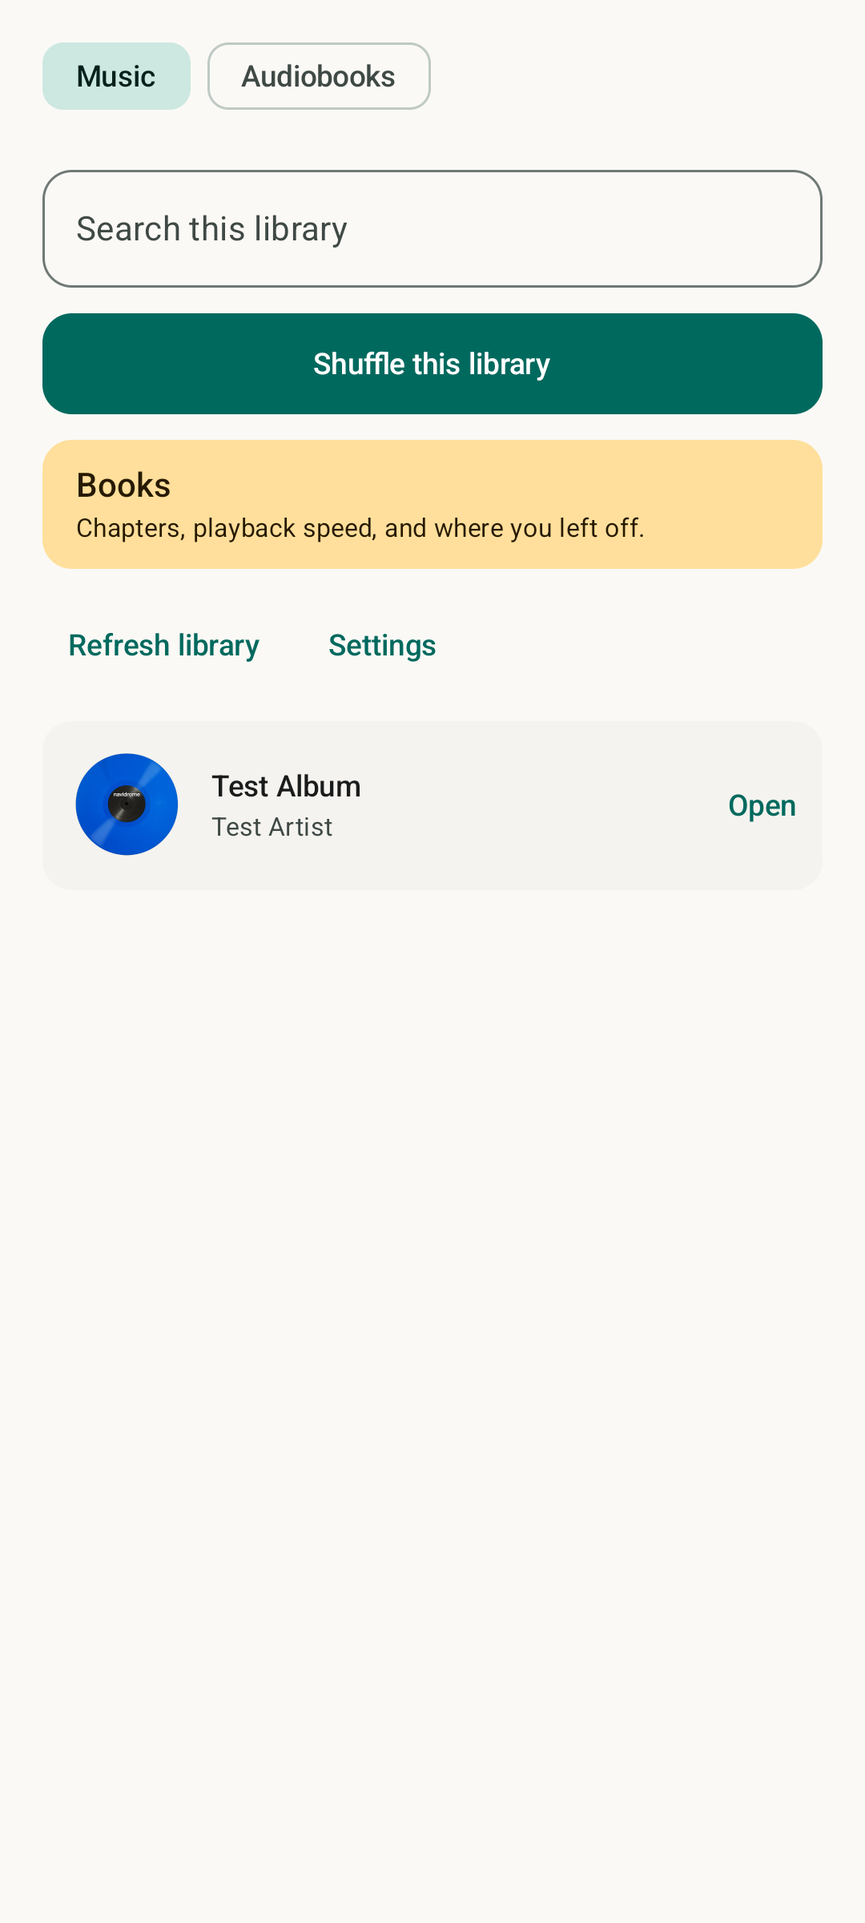
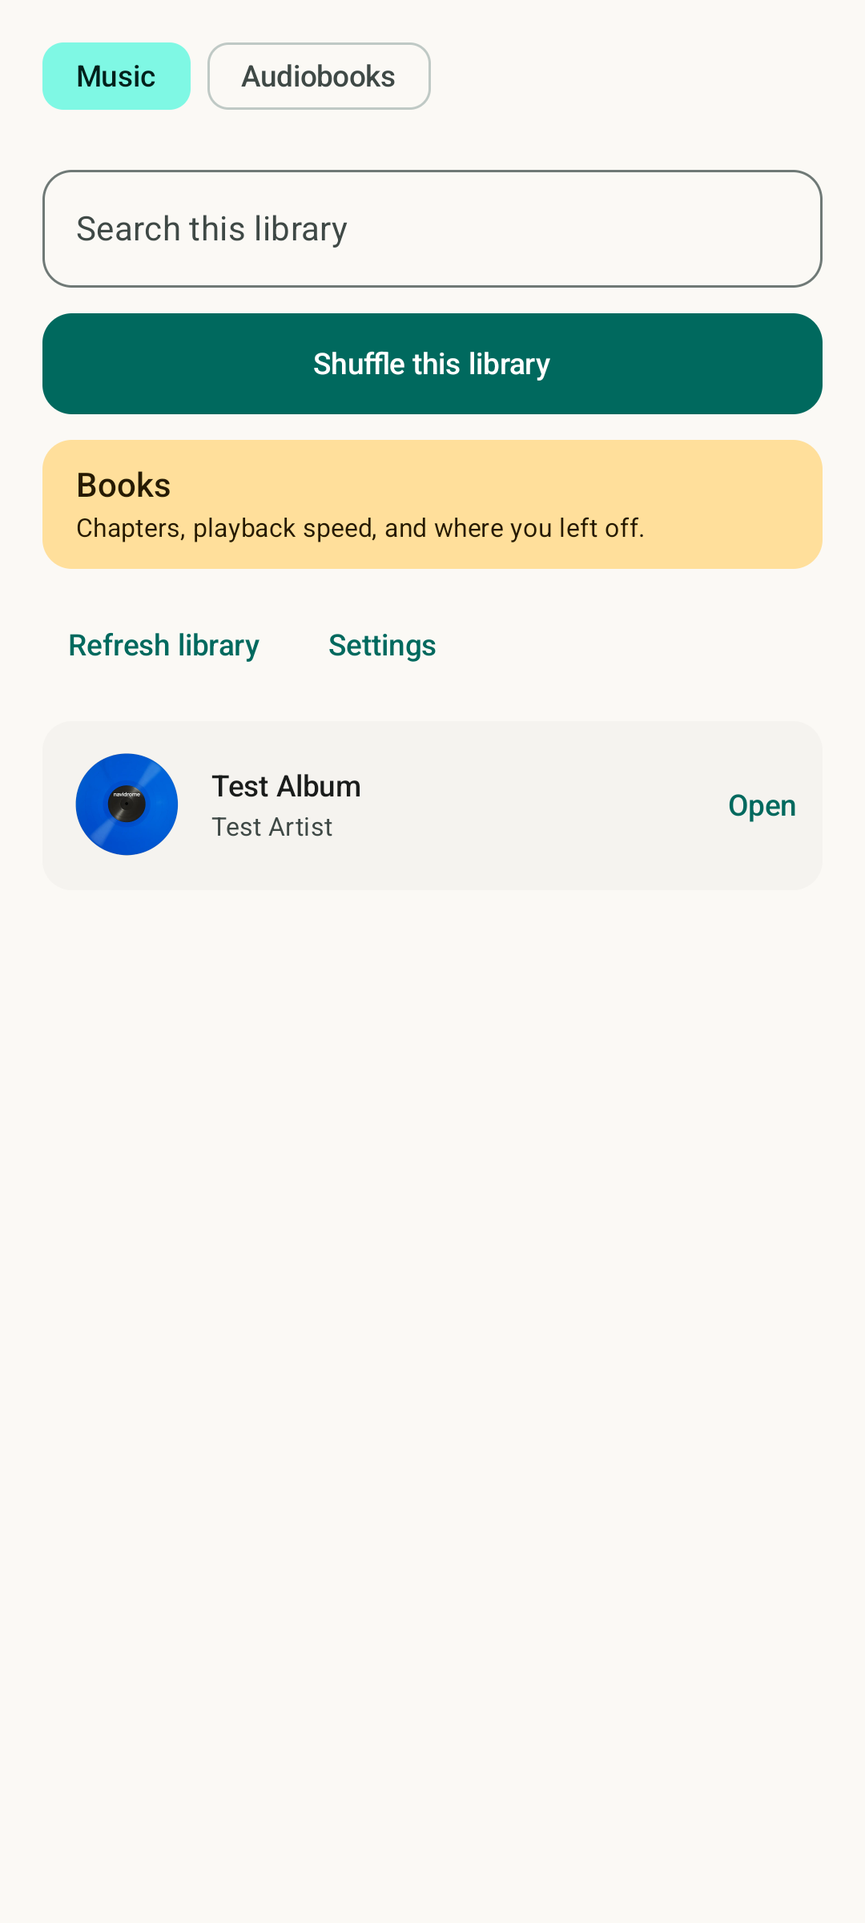
fix(ui): a progress track nobody could see, and a chip that changed colour by screen
The last three open P1s from the design-system audit. Two of them turned out to
be about something other than what the audit named, and that is recorded here
rather than quietly dropped.

**The audiobook progress track was drawn in a role that cannot be seen.** All
three book screens used `surfaceVariant` for `trackColor`. Measured against the
light scheme this ships: `surfaceVariant` on `surface` is **1.22:1**, which is
not a visible line -- the bar looked like it had no unfilled portion at all.
`outlineVariant` is **1.61:1** on the same background, and the filled portion
stays at 3.80:1 either way. All three now use `outlineVariant`.

`BookVoiceApplicationTest` gains `no audiobook screen draws its progress track in
the role that cannot be seen`: a source scan over the three files (comments
stripped) asserting exactly three `trackColor =` sites and all three
`outlineVariant`. Falsified red by reverting one of them.

**The dark-scheme `surfaceVariant`/`outlineVariant` "collision" is Material's
own baseline, not a defect.** material3 1.4.0's `ColorDarkTokens` assigns both
roles `PaletteTokens.NeutralVariant30` -- they are the same colour by design,
and `SurfaceContainerHighest` is `Neutral22`. The harm the audit predicted from
this (an invisible placeholder) had already been fixed elsewhere. The override
stays and now carries the token measurement so the next reader does not re-derive
it.

**Deleting the three unused type styles would substitute Material's numbers, not
[…]

Changed region(s): [[0.0306, 0.0, 0.2444, 0.0625]]

diff --git a/feature/library/src/test/kotlin/app/muplay/library/LibraryChipVoiceTest.kt b/feature/library/src/test/kotlin/app/muplay/library/LibraryChipVoiceTest.kt
@@ -1,0 +1,70 @@
+package app.muplay.library
+
+import java.io.File
+import org.assertj.core.api.Assertions.assertThat
+import org.junit.jupiter.api.Test
+
+/**
+ * **A library keeps the colour setup taught the user for it.**
+ *
+ * `Color.kt` reserves `primary` for music and `tertiary` for audiobooks, and `SetupScreen` teaches
+ * that pairing as directly as a screen can: its two chips are labelled "Tag as Music"
+ * (`primaryContainer`) and "Tag as Audiobooks" (`tertiaryContainer`). The library selector then
+ * drew the same libraries as stock `FilterChip`s in neither colour, three rows above a `Books` card
+ * that *is* `tertiaryContainer` -- so the continuity was closed for the door out of the music half
+ * and left open for the thing the door leads to.
+ *
+ * A source scan, for the same reason [BookVoiceApplicationTest] in `:feature:book` is one: there is
+ * no Compose matcher for "what colour is that chip", and a screenshot would only show it in one
+ * theme and only for a library a fixture happens to have tagged. This module's own sources are
+ * declared inputs of this module's own test task, so editing the screen re-runs this -- which is
+ * the hole CLAUDE.md records for `ConventionTest`'s repo-wide rules.
+ *
+ * Comments are stripped before matching. The composable's own KDoc names both container roles in
+ * prose, and a raw-text scan would be satisfied by the explanation instead of by the code -- the
+ * self-matching failure this repository has now paid for five times, and the same fix
+ * `VerifyMergedManifestTask`'s required half makes.
+ *
+ * Falsified: with the `colors =` argument deleted, both assertions below go red naming the role
+ * that is missing.
+ */
+class LibraryChipVoiceTest {
+
+  @Test
+  fun `the library selector tints an audiobook library in the audiobook voice`() {
+    val body = libraryChipsBody()
+
+    assertThat(body)
+      .describedAs("LibraryChips must decide its tint from the library's own role")
+      .contains("LibraryRole.AUDIOBOOKS")
+    assertThat(body)
+      .describedAs("an audiobook library's selected chip is the container colour setup tagged it with")
+      .contains("tertiaryContainer", "onTertiaryContainer")
+    assertThat(body)
+      .describedAs("a music library's selected chip stays in the music voice")
+      .contains("primaryContainer", "onPrimaryContainer")
+  }
+
+  @Test
+  fun `the scan is looking at the real composable`() {
+    // Without this, a renamed composable makes the test above scan an empty string and report
+    // nothing -- the failure mode where a check returns the same falsey value for "clean" and
+    // "I could not look". Same guard `BookVoiceApplicationTest` keeps on its own file list.
+    val body = libraryChipsBody()
+    assertThat(body).isNotBlank()
+    assertThat(body).contains("FilterChip(", "onLibrarySelected(library.id)")
+  }
+
+  /** The body of `LibraryChips`, from its signature to the next column-0 `}`, comments removed. */
+  private fun libraryChipsBody(): String {
+    val source = File("src/main/kotlin/app/muplay/library/LibraryScreen.kt")
+    assertThat(source).describedAs("LibraryScreen.kt").exists()
+    val lines = source.readLines()
+    val start = lines.indexOfFirst { it.startsWith("private fun LibraryChips(") }
+    assertThat(start).describedAs("the LibraryChips declaration").isNotEqualTo(-1)
+    val close = (start + 1 until lines.size).first { lines[it] == "}" }
+    return lines.subList(start + 1, close).joinToString("\n")
+      .replace(Regex("""/\*[\s\S]*?\*/"""), "")
+      .replace(Regex("""//.*"""), "")
+  }
+}

diff --git a/feature/library/src/main/kotlin/app/muplay/library/LibraryScreen.kt b/feature/library/src/main/kotlin/app/muplay/library/LibraryScreen.kt
@@ -16,6 +16,7 @@ import androidx.compose.foundation.lazy.items
 import androidx.compose.foundation.lazy.itemsIndexed
 import androidx.compose.material3.Button
 import androidx.compose.material3.FilterChip
+import androidx.compose.material3.FilterChipDefaults
 import androidx.compose.material3.MaterialTheme
 import androidx.compose.material3.OutlinedTextField
 import androidx.compose.material3.Surface
@@ -34,6 +35,7 @@ import androidx.lifecycle.compose.collectAsStateWithLifecycle
 import app.muplay.designsystem.component.Message
 import app.muplay.designsystem.theme.MuPlaySpacing
 import app.muplay.model.Album
+import app.muplay.model.LibraryRole
 import app.muplay.model.Song
 
 @Composable
@@ -287,7 +289,20 @@ private fun LibraryScreen(
   }
 }
 
-/** The library selector. Wraps, because a library's name is whoever-set-the-server-up's business. */
+/**
+ * The library selector. Wraps, because a library's name is whoever-set-the-server-up's business.
+ *
+ * **A chip is tinted by what its library holds, which is the tint the user chose in setup.**
+ * `Color.kt` reserves `primary` for music and `tertiary` for audiobooks, and setup teaches that
+ * pairing directly: its two chips are literally labelled "Tag as Music" (`primaryContainer`) and
+ * "Tag as Audiobooks" (`tertiaryContainer`). This selector was a stock `FilterChip` with no
+ * colours at all, so the first thing a user saw after being taught the pairing was the same
+ * library in neither colour -- while the `Books` card a few rows below it *is* `tertiaryContainer`.
+ * The continuity was closed for the door out of the music half and left open for the selector.
+ *
+ * Only the *selected* colours are named. An unselected chip is an outline in both voices, and
+ * tinting the outlines would turn a row of libraries into a colour key nobody asked for.
+ */
 @Composable
 @OptIn(ExperimentalLayoutApi::class)
 private fun LibraryChips(uiState: LibraryUiState.Content, onLibrarySelected: (Int) -> Unit) {
@@ -297,10 +312,23 @@ private fun LibraryChips(uiState: LibraryUiState.Content, onLibrarySelected: (In
     modifier = Modifier.fillMaxWidth(),
   ) {
     uiState.libraries.forEach { library ->
+      val audiobooks = library.role == LibraryRole.AUDIOBOOKS
       FilterChip(
         selected = library.id == uiState.selectedLibraryId,
         onClick = { onLibrarySelected(library.id) },
         label = { Text(library.name) },
+        colors = FilterChipDefaults.filterChipColors(
+          selectedContainerColor = if (audiobooks) {
+            MaterialTheme.colorScheme.tertiaryContainer
+          } else {
+            MaterialTheme.colorScheme.primaryContainer
+          },
+          selectedLabelColor = if (audiobooks) {
+            MaterialTheme.colorScheme.onTertiaryContainer
+          } else {
+            MaterialTheme.colorScheme.onPrimaryContainer
+          },
+        ),
       )
     }
   }

diff --git a/feature/book/src/test/kotlin/app/muplay/book/BookVoiceApplicationTest.kt b/feature/book/src/test/kotlin/app/muplay/book/BookVoiceApplicationTest.kt
@@ -57,6 +57,46 @@ class BookVoiceApplicationTest {
     }
   }
 
+  /**
+   * **Every book screen's progress track is `outlineVariant`, and none is `surfaceVariant`.**
+   *
+   * `PlayerScreen`'s seek bar carries the measurement: light `surfaceVariant` on the light surface
+   * is **1.22:1**, which is a track a sighted user cannot find, and `outlineVariant` is 1.61:1.
+   * That change landed on the seek bar and on nothing else, so the three book screens kept drawing
+   * the version it replaced for weeks. A colour assertion cannot see this -- there is no Compose
+   * matcher for "what colour is that track" -- and the roles are identical in dark, so even a
+   * screenshot would only show it in one theme.
+   *
+   * Comments are stripped first. The comment beside each of these very lines names
+   * `surfaceVariant` in prose, and a raw-text scan would report itself -- the self-matching failure
+   * this repository has now paid for five times.
+   */
+  @Test
+  fun `no audiobook screen draws its progress track in the role that cannot be seen`() {
+    val tracks = screens.map { (file, _) -> file to trackColoursIn(file) }
+
+    // Non-vacuity, and it is the half that would rot: a renamed file or a fourth book screen with
+    // no bar leaves the assertion below true and meaningless.
+    assertThat(tracks.flatMap { it.second })
+      .describedAs("every `trackColor =` in the three book screens")
+      .hasSize(3)
+
+    assertThat(tracks.filterNot { (_, roles) -> roles.all { it == "outlineVariant" } }.map { it.first })
+      .describedAs("book screens drawing a progress track in a role other than outlineVariant")
+      .isEmpty()
+  }
+
+  /** The colour-scheme role named by each `trackColor =` in [file], comments removed. */
+  private fun trackColoursIn(file: String): List<String> {
+    val source = File("src/main/kotlin/app/muplay/book/$file")
+    assertThat(source).describedAs("source file %s", file).exists()
+    val code = source.readText()
+      .replace(Regex("""/\*[\s\S]*?\*/"""), "")
+      .replace(Regex("""//.*"""), "")
+    return Regex("""trackColor\s*=\s*MaterialTheme\.colorScheme\.(\w+)""")
+      .findAll(code).map { it.groupValues[1] }.toList()
+  }
+
   /** The text between [signature]'s opening `) {` and the first column-0 `}` after it. */
   private fun bodyOf(file: String, signature: String): String {
     val source = File("src/main/kotlin/app/muplay/book/$file")

diff --git a/core/designsystem/src/main/kotlin/app/muplay/designsystem/theme/Type.kt b/core/designsystem/src/main/kotlin/app/muplay/designsystem/theme/Type.kt
@@ -29,6 +29,26 @@ import androidx.compose.ui.unit.sp
  * finder while a screen reader spelled the result out letter by letter. Tracking and weight buy the
  * same eyebrow effect and cost nothing. (Tracking is applied by the style, so the semantics text is
  * untouched: `onNodeWithText("Continue listening")` still matches.)
+ *
+ * ### `displayLarge`, `displayMedium` and `headlineLarge` are drawn by nothing, and they stay
+ *
+ * An audit found the three and asked for the usual verdict: use them or delete them, since "a type
+ * scale nothing draws is three more numbers to keep true". Measured before answering, and the
+ * arithmetic goes the other way. Deleting a slot from a `Typography` does not remove a number; it
+ * substitutes **Material's** number, because `Typography()` defaults every slot it is not given.
+ * Read out of material3 1.4.0's own `TypeScaleTokens`: `DisplayLargeWeight` is
+ * `TypefaceTokens.WeightRegular` and `DisplayLargeTracking` is `0.2` — Regular where this scale
+ * sets SemiBold, and tracking that is slightly **positive** where rule one sets it negative. The
+ * substitutes contradict both rules stated above, in the part of the scale where the rules bite
+ * hardest. So the choice is not "three numbers or none". It is three numbers that continue this
+ * ramp against three that argue with it, and the argument would only become visible on the day
+ * somebody finally reached for `displayLarge`.
+ *
+ * That is also the honest reason a ramp has unused steps: it is a ramp. `displaySmall` *is* drawn
+ * (the book player's remaining-time), so the two sizes above it are what make its 34sp read as the
+ * third step of a series rather than as a number somebody liked. Keeping a scale whole is the
+ * cheapest way to make the next screen's choice obvious, and this whole file exists because the
+ * alternative — three slots overridden and the rest left at the baseline — is what it replaced.
  */
 val MuPlayTypography = Typography(
   displayLarge = TextStyle(fontWeight = FontWeight.SemiBold, fontSize = 52.sp, lineHeight = 60.sp, letterSpacing = (-0.03).em),

diff --git a/core/designsystem/src/main/kotlin/app/muplay/designsystem/theme/Color.kt b/core/designsystem/src/main/kotlin/app/muplay/designsystem/theme/Color.kt
@@ -121,6 +121,22 @@ val MuPlayBackgroundDark = Color(0xFF0E1413)
 val MuPlayOnBackgroundDark = Color(0xFFDEE4E1)
 val MuPlaySurfaceDark = Color(0xFF0E1413)
 val MuPlayOnSurfaceDark = Color(0xFFDEE4E1)
+/**
+ * The same `#3F4946` as [MuPlayOutlineVariantDark], and brighter than
+ * [MuPlaySurfaceContainerHighestDark]. An audit called both of those a defect. **Material 3 does
+ * exactly the same thing**, which was measured rather than argued: in material3 1.4.0's own
+ * `ColorDarkTokens`, `SurfaceVariant` and `OutlineVariant` are both assigned
+ * `PaletteTokens.NeutralVariant30` — literally one token — while `SurfaceContainerHighest` is
+ * `Neutral22`, darker. This scheme reproduces the baseline's relationship, and departing from it
+ * would put one role off Material's neutral ramp to fix an appearance nothing in this app draws.
+ *
+ * Nothing in this app draws it, and that is the other half. The harm the audit named was the
+ * artwork placeholder — "in dark a missing cover is the brightest thing on screen" — and
+ * `CoverArt.kt` has used [MuPlaySurfaceContainerHighestDark] since `4d20aff`. The three book
+ * screens' progress tracks were the last explicit callers and are now `outlineVariant`, for the
+ * contrast reason `PlayerScreen`'s seek bar records. What is left is the slot itself, which
+ * `ColorScheme` requires and Material components consult by default.
+ */
 val MuPlaySurfaceVariantDark = Color(0xFF3F4946)
 val MuPlayOnSurfaceVariantDark = Color(0xFFBEC9C4)
 val MuPlayOutlineDark = Color(0xFF89938F)

diff --git a/feature/book/src/main/kotlin/app/muplay/book/BookPlayerScreen.kt b/feature/book/src/main/kotlin/app/muplay/book/BookPlayerScreen.kt
@@ -306,7 +306,17 @@ private fun NowReading(
           else state.positionInChapterMs.toFloat() / state.chapterDurationMs
         },
         color = MaterialTheme.colorScheme.tertiary,
-        trackColor = MaterialTheme.colorScheme.surfaceVariant,
+        // **`outlineVariant`, not `surfaceVariant`, and the difference is measured.** Light
+        // `surfaceVariant` (`#DBE5E1`) on the light surface (`#FBF9F5`) is **1.22:1** -- a track a
+        // sighted user cannot find, so how much of the chapter is left is invisible.
+        // `outlineVariant` (`#BFC9C5`) is **1.61:1**. `PlayerScreen`'s seek bar made exactly this
+        // trade and carries the full working; these three book screens were simply never brought
+        // with it. In dark the two roles are the same `#3F4946`, so nothing there changes.
+        //
+        // The fill stays clear of the track either way: `tertiary` on `outlineVariant` is 3.80:1
+        // light and 5.55:1 dark, against the 3:1 WCAG 1.4.11 asks of the boundary that carries the
+        // value. It was 5.01:1 light, which is margin this trade can afford to spend.
+        trackColor = MaterialTheme.colorScheme.outlineVariant,
         modifier = Modifier.fillMaxWidth().height(PROGRESS_HEIGHT_DP.dp),
       )
       // One string rather than two nodes: it reads as a fraction ("where I am, out of how

diff --git a/feature/book/src/main/kotlin/app/muplay/book/BookshelfScreen.kt b/feature/book/src/main/kotlin/app/muplay/book/BookshelfScreen.kt
@@ -234,7 +234,8 @@ private fun BookRow(
             // narrowing at the source would lose the distinction between 0.0 and "not quite 0".
             progress = { book.progressFraction.toFloat() },
             color = MaterialTheme.colorScheme.tertiary,
-            trackColor = MaterialTheme.colorScheme.surfaceVariant,
+            // `outlineVariant`, not `surfaceVariant`: see BookPlayerScreen's progress bar for the numbers.
+            trackColor = MaterialTheme.colorScheme.outlineVariant,
             modifier = Modifier
               .fillMaxWidth()
               .padding(top = MuPlaySpacing.xs)

diff --git a/feature/book/src/main/kotlin/app/muplay/book/BookScreen.kt b/feature/book/src/main/kotlin/app/muplay/book/BookScreen.kt
@@ -170,7 +170,8 @@ internal fun BookContent(
               LinearProgressIndicator(
                 progress = { state.book.progressFraction.toFloat() },
                 color = MaterialTheme.colorScheme.tertiary,
-                trackColor = MaterialTheme.colorScheme.surfaceVariant,
+                // `outlineVariant`, not `surfaceVariant`: see BookPlayerScreen's progress bar for the numbers.
+                trackColor = MaterialTheme.colorScheme.outlineVariant,
                 modifier = Modifier.fillMaxWidth().height(PROGRESS_HEIGHT_DP.dp),
               )
             }

diff --git a/docs/AUDIT-BACKLOG.md b/docs/AUDIT-BACKLOG.md
@@ -6,7 +6,7 @@ produced nothing; they are listed at the end as **not done**, so nobody mistakes
 absence for a clean result.
 
 **Status, re-checked against the tree on 2026-09-05 rather than remembered: all eight P0
-items are fixed, and most of P1.** What each was and what closed it is below, because a
+items are fixed, and all eleven of P1.** What each was and what closed it is below, because a
 backlog that deletes its own history stops being reviewable -- but read the marker before
 the prose. Every paragraph under a ✅ heading describes code that no longer exists; it is kept so the
 fix can be reviewed against what it was for.
@@ -14,8 +14,10 @@ fix can be reviewed against what it was for.
 The three lines that would otherwise mislead a reader of the 09-02 version:
 
 - Every P0 fix has tests, and every one of those tests was watched to fail first.
-- The P1 design-system section was written before two rounds of fixes; eight of its eleven
-  bullets are closed, one of them *as a deliberate refusal* carrying the measurement.
+- The P1 design-system section was written before two rounds of fixes; all eleven of its
+  bullets are now closed, three of them *as deliberate refusals* carrying the measurement.
+  One of the three -- the dark `surfaceVariant` collision -- was refused for the reason it
+  named and fixed one layer along, where the same colour was a real contrast defect.
 - **Nothing here has been re-audited.** These are the findings of three audits from one
   afternoon, fixed. They are not a clean bill of health, and the eight audits at the
   bottom are still the honest summary of what nobody has looked at.
@@ -136,23 +138,43 @@ happens, with no explanation.
 
 ## P1 — the design system does not hold
 
-Eight of these eleven are closed. The three that are open are named first, so a reader who
-stops after one paragraph stops in the right place.
+**All eleven are now closed.** Three were still open on 2026-09-05 and each is below with what
+settled it; two of the three turned out to be about something other than what the audit named.
 
-### Open
+### Closed 2026-09-05
 
-- **Dark `surfaceVariant` still collides with `outlineVariant`** — both `#3F4946`
-  (`Color.kt:124,162`), brighter than `surfaceContainerHighest`. `outlineVariant`'s half of
-  this is settled below *as a refusal*; the `surfaceVariant` half is not. It is the artwork
-  placeholder, so in dark **a missing cover is still the brightest thing on screen**.
-- **The library chip still contradicts what setup just taught.** Setup tints "Tag as
-  Audiobooks" `tertiaryContainer`; `LibraryChips` (`LibraryScreen.kt:300`) is a stock
-  `FilterChip` with no colours at all. The `Books` card above it *did* become
-  `tertiaryContainer`, which closes the continuity for the entry point and not for the chip.
-  **Do not reword or hide Shuffle for audiobook libraries** — `ScopedShuffleJourneyTest`
-  finds it by exact text.
-- **`displayLarge`, `displayMedium`, `headlineLarge` still have zero call sites.** Either
-  use them or delete them; a type scale nothing draws is three more numbers to keep true.
+- ✅ **Dark `surfaceVariant` colliding with `outlineVariant` is Material's own scheme, and the
+  harm the audit named had already been fixed elsewhere.** Measured in material3 1.4.0's
+  `ColorDarkTokens`: `SurfaceVariant` and `OutlineVariant` are both assigned
+  `PaletteTokens.NeutralVariant30` — one token, not two values that drifted together — and
+  `SurfaceContainerHighest` is `Neutral22`, darker. So "brighter than `surfaceContainerHighest`"
+  is the baseline's own relationship. The stated consequence, *"it is the artwork placeholder, so
+  in dark a missing cover is the brightest thing on screen"*, stopped being true at `4d20aff`:
+  `CoverArt.kt` draws its placeholder in `surfaceContainerHighest`.
+
+  What the audit was pointing at turned out to be real one layer along, and worth the trip: the
+  three **book** screens still drew their progress track in `surfaceVariant`, which in light is
+  **1.22:1** against the surface. `PlayerScreen`'s seek bar had already measured that and moved to
+  `outlineVariant` (**1.61:1**) — and moved nothing else. The three are now `outlineVariant` too,
+  held by a source scan in `BookVoiceApplicationTest` (falsified: revert one and it names the
+  file). `Color.kt` carries the measurement at the value itself.
+- ✅ **The library chip now keeps the colour setup taught for it.** `LibraryChips` tints its
+  *selected* container from `library.role`: `tertiaryContainer` for an audiobook library,
+  `primaryContainer` for music — the same pairing `SetupScreen`'s "Tag as Music" / "Tag as
+  Audiobooks" chips draw, and the same voice as the `Books` card three rows below. Unselected
+  chips stay outlines in both voices; tinting those would turn a row of libraries into a colour
+  key nobody asked for. Held by `LibraryChipVoiceTest`, a source scan for the reason
+  `BookVoiceApplicationTest` is one — there is no Compose matcher for "what colour is that chip".
+  Shuffle was not touched.
+- ✅ **`displayLarge`, `displayMedium` and `headlineLarge` stay, and `Type.kt` now says why.**
+  "Use them or delete them" has a third answer, and the arithmetic decides it: deleting a slot
+  from a `Typography` does not remove a number, it substitutes Material's. Measured in
+  `TypeScaleTokens` — `DisplayLargeWeight` is `WeightRegular` and `DisplayLargeTracking` is
+  `+0.2`, against this scale's SemiBold and negative tracking — so the choice is three numbers
+  that continue this ramp against three that argue with it, in the part of the scale where the
+  file's two stated rules bite hardest. `displaySmall` *is* drawn (the book player's remaining
+  time), and the two steps above it are what make its 34sp read as a series rather than as a
+  number somebody liked.
 
 ### Closed as a deliberate refusal, with the measurement
 
